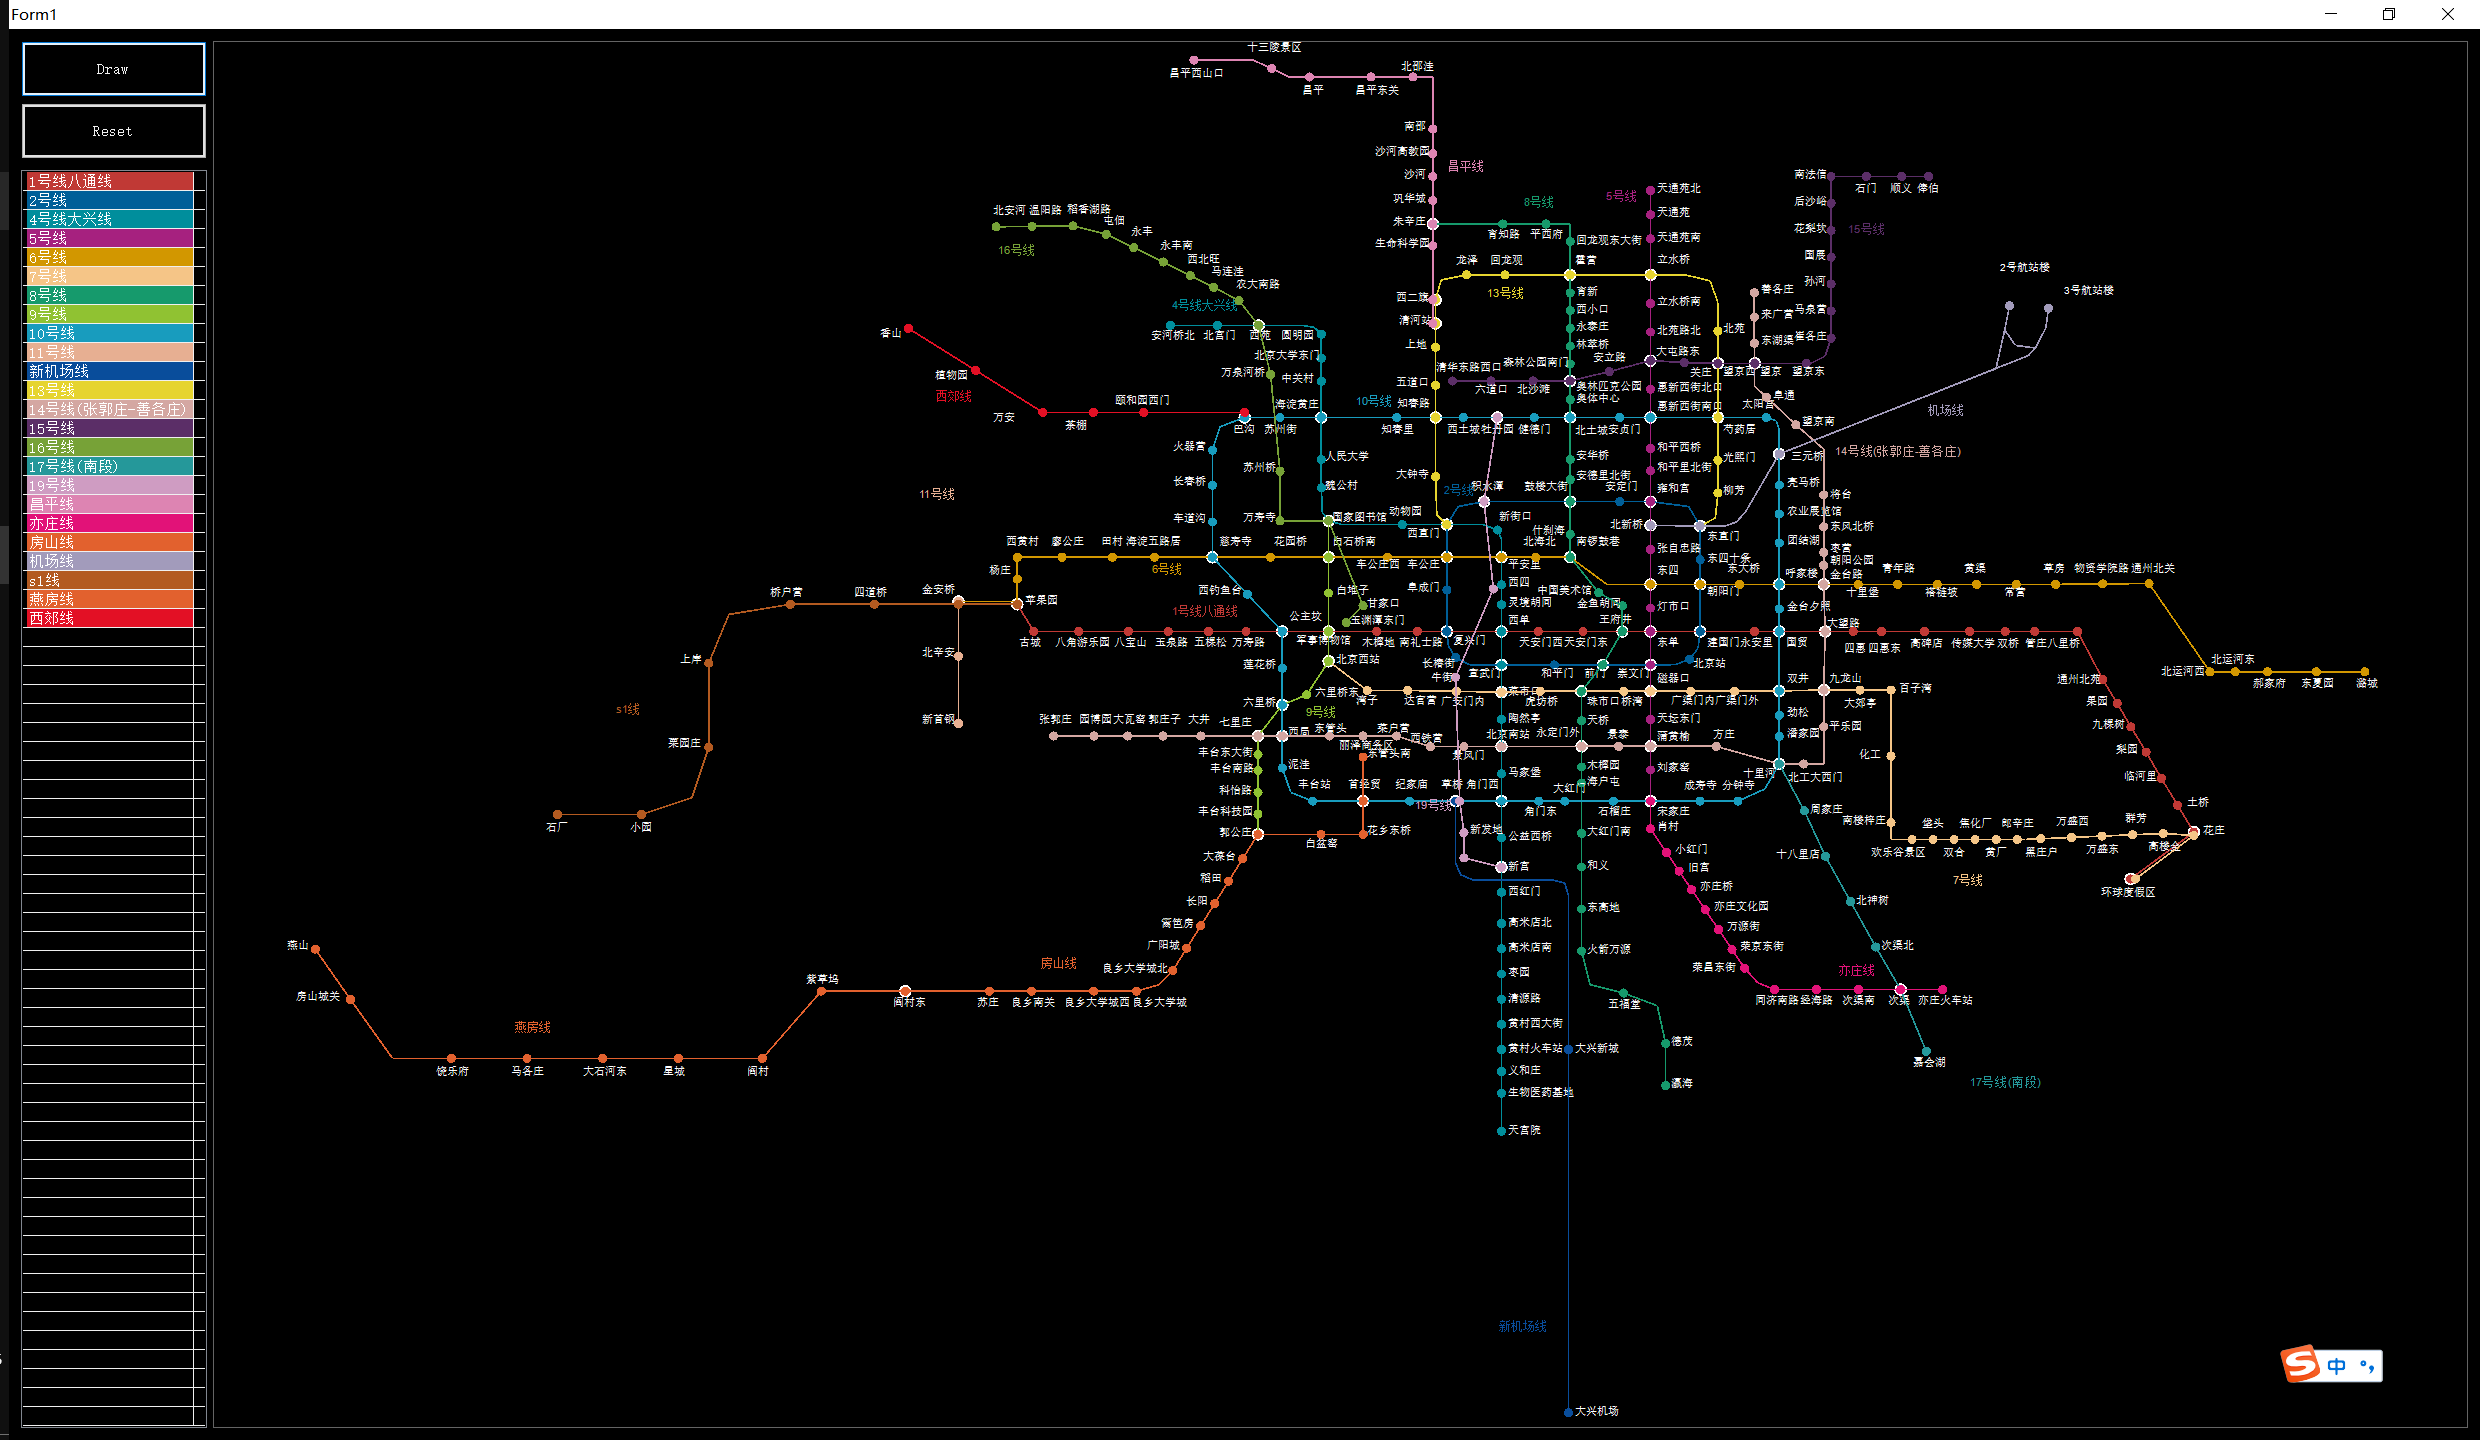
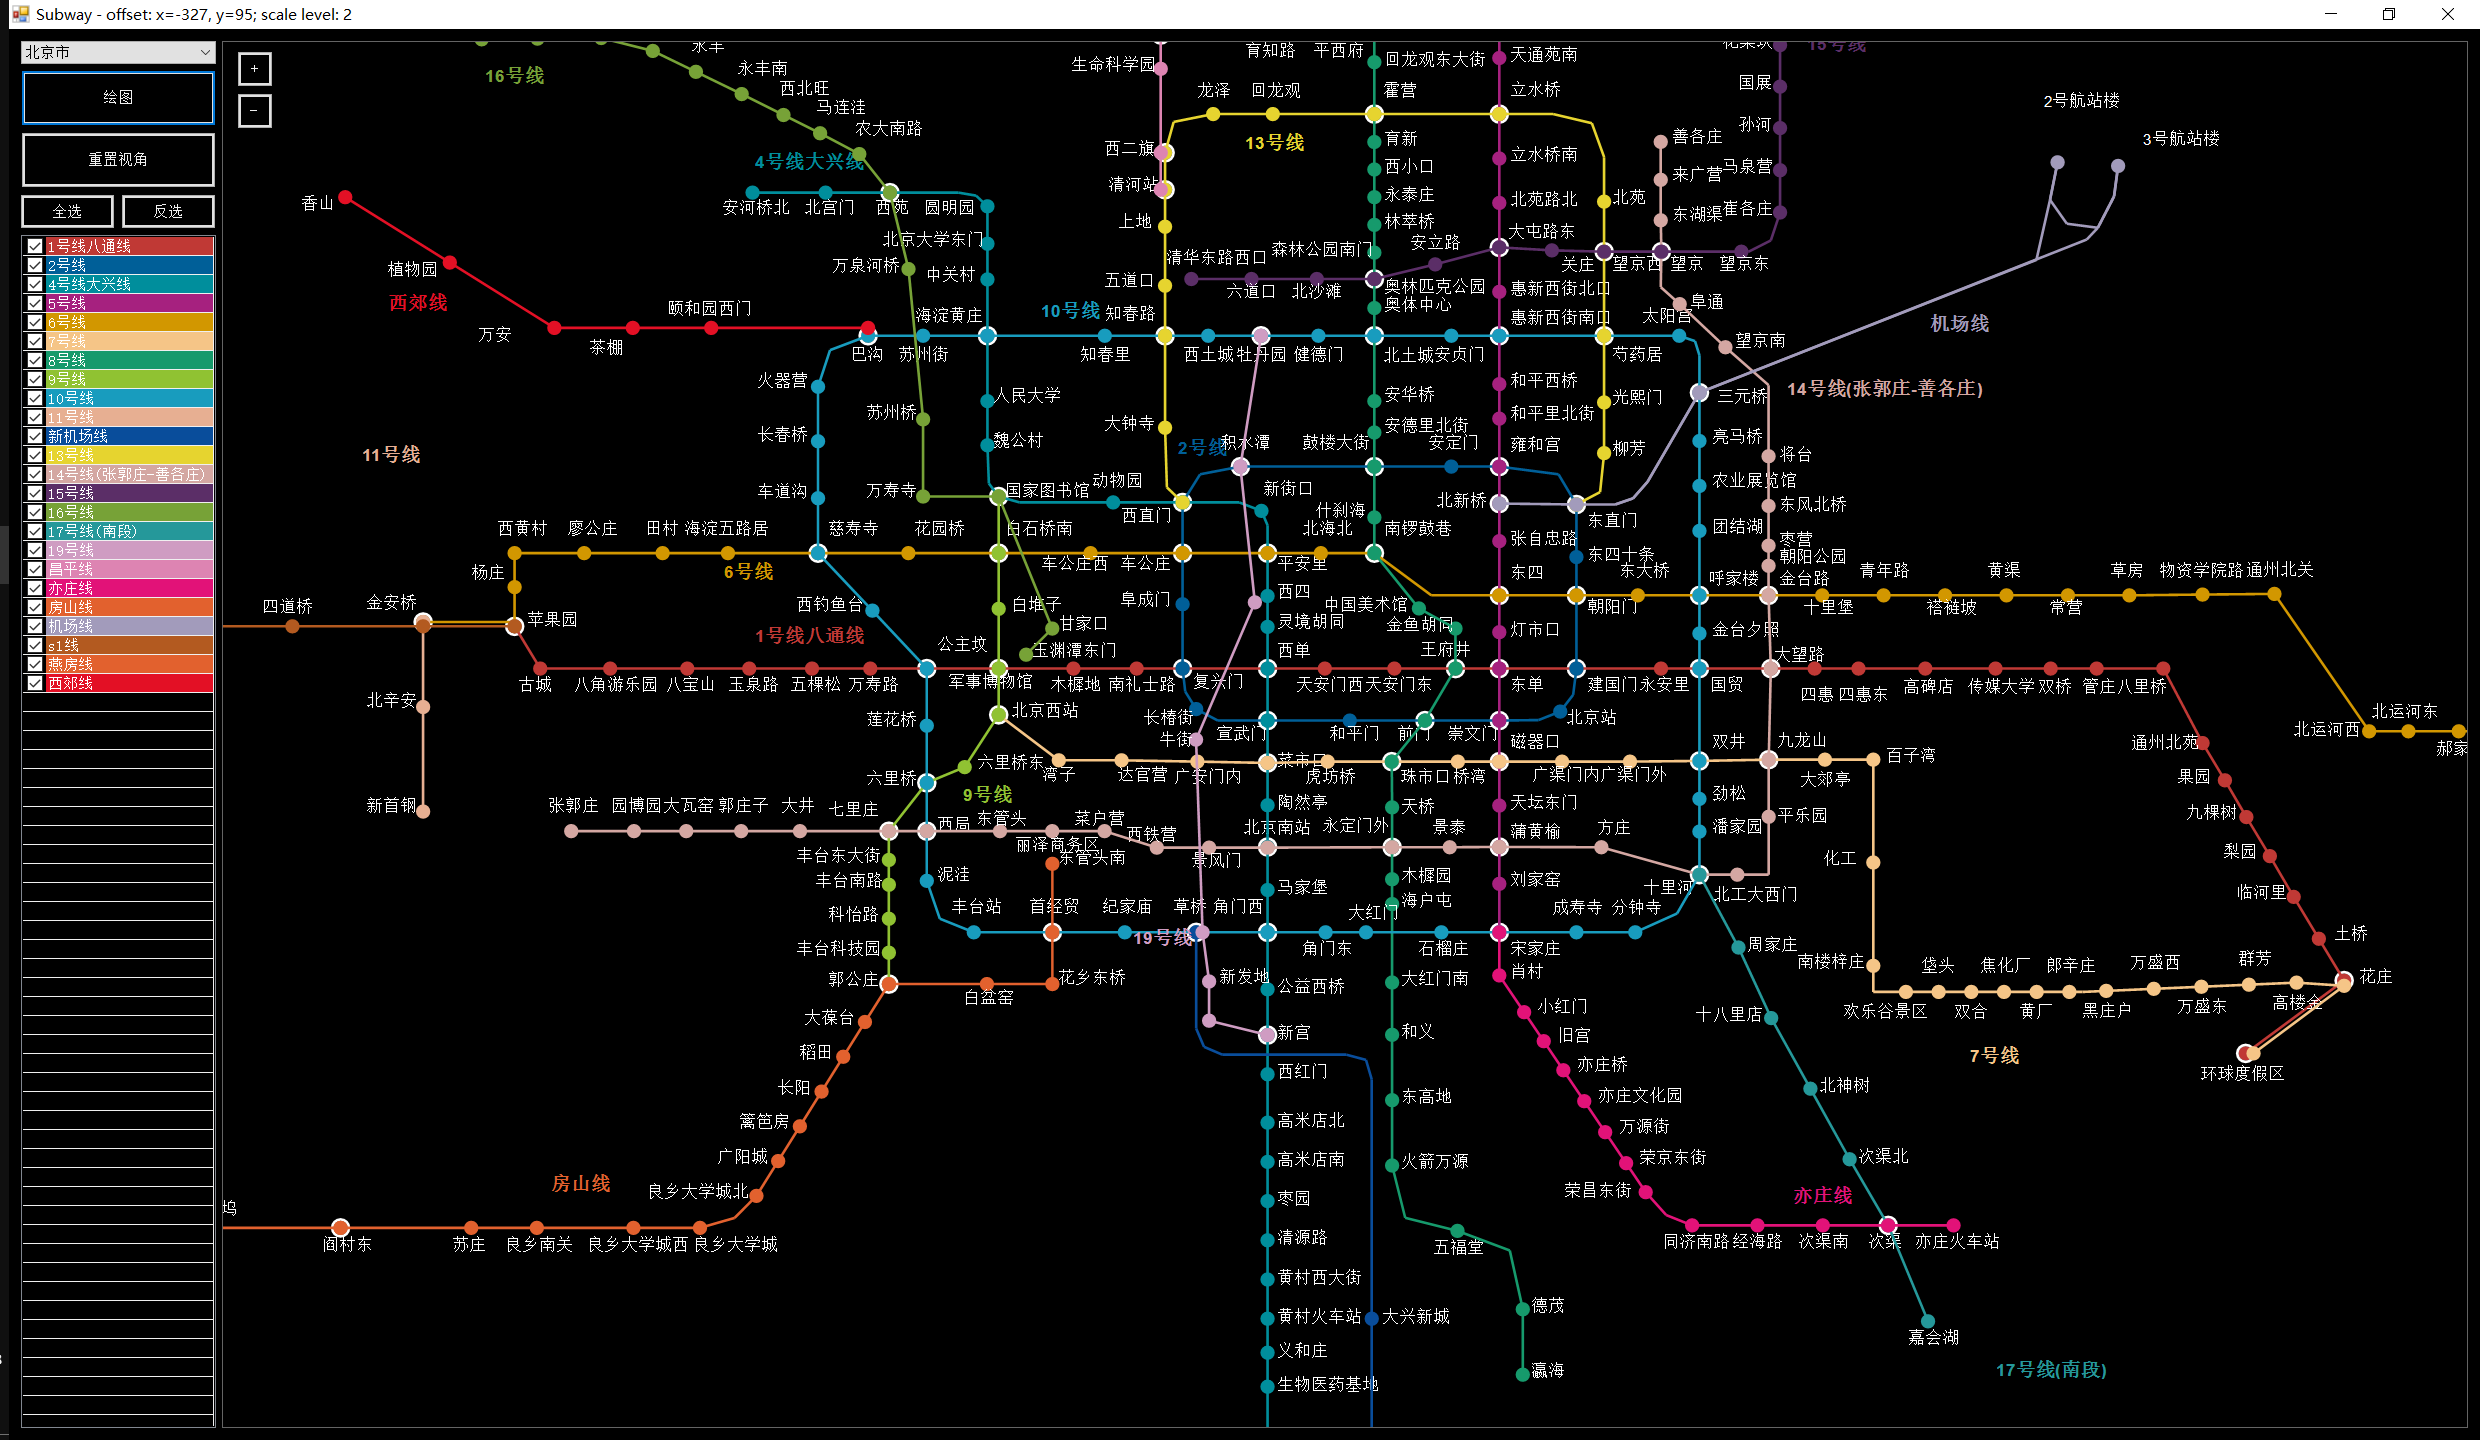
增加多城市支持;

diff --git a/cs_bjsubway/Form1.Designer.cs b/cs_bjsubway/Form1.Designer.cs
@@ -37,6 +37,7 @@
             this.button_select_no = new System.Windows.Forms.Button();
             this.button_scale_up = new System.Windows.Forms.Button();
             this.button_scale_down = new System.Windows.Forms.Button();
+            this.comboBox_city = new System.Windows.Forms.ComboBox();
             ((System.ComponentModel.ISupportInitialize)(this.pictureBox1)).BeginInit();
             this.SuspendLayout();
             // 
@@ -44,7 +45,7 @@
             // 
             this.button1.BackColor = System.Drawing.SystemColors.WindowText;
             this.button1.ForeColor = System.Drawing.SystemColors.ButtonFace;
-            this.button1.Location = new System.Drawing.Point(12, 12);
+            this.button1.Location = new System.Drawing.Point(12, 41);
             this.button1.Name = "button1";
             this.button1.Size = new System.Drawing.Size(195, 56);
             this.button1.TabIndex = 0;
@@ -64,10 +65,10 @@
             this.listView_lines.GridLines = true;
             this.listView_lines.HeaderStyle = System.Windows.Forms.ColumnHeaderStyle.None;
             this.listView_lines.HideSelection = false;
-            this.listView_lines.Location = new System.Drawing.Point(12, 179);
+            this.listView_lines.Location = new System.Drawing.Point(12, 206);
             this.listView_lines.MultiSelect = false;
             this.listView_lines.Name = "listView_lines";
-            this.listView_lines.Size = new System.Drawing.Size(195, 640);
+            this.listView_lines.Size = new System.Drawing.Size(195, 613);
             this.listView_lines.TabIndex = 2;
             this.listView_lines.UseCompatibleStateImageBehavior = false;
             this.listView_lines.View = System.Windows.Forms.View.Details;
@@ -100,7 +101,7 @@
             // 
             this.button_reset.BackColor = System.Drawing.SystemColors.WindowText;
             this.button_reset.ForeColor = System.Drawing.SystemColors.ButtonFace;
-            this.button_reset.Location = new System.Drawing.Point(12, 74);
+            this.button_reset.Location = new System.Drawing.Point(12, 103);
             this.button_reset.Name = "button_reset";
             this.button_reset.Size = new System.Drawing.Size(195, 56);
             this.button_reset.TabIndex = 4;
@@ -112,7 +113,7 @@
             // 
             this.button_select_all.BackColor = System.Drawing.SystemColors.WindowText;
             this.button_select_all.ForeColor = System.Drawing.SystemColors.ButtonFace;
-            this.button_select_all.Location = new System.Drawing.Point(12, 138);
+            this.button_select_all.Location = new System.Drawing.Point(11, 165);
             this.button_select_all.Name = "button_select_all";
             this.button_select_all.Size = new System.Drawing.Size(95, 35);
             this.button_select_all.TabIndex = 5;
@@ -124,7 +125,7 @@
             // 
             this.button_select_no.BackColor = System.Drawing.SystemColors.WindowText;
             this.button_select_no.ForeColor = System.Drawing.SystemColors.ButtonFace;
-            this.button_select_no.Location = new System.Drawing.Point(112, 138);
+            this.button_select_no.Location = new System.Drawing.Point(112, 165);
             this.button_select_no.Name = "button_select_no";
             this.button_select_no.Size = new System.Drawing.Size(95, 35);
             this.button_select_no.TabIndex = 6;
@@ -156,12 +157,26 @@
             this.button_scale_down.UseVisualStyleBackColor = false;
             this.button_scale_down.Click += new System.EventHandler(this.button_scale_down_Click);
             // 
+            // comboBox_city
+            // 
+            this.comboBox_city.BackColor = System.Drawing.SystemColors.WindowText;
+            this.comboBox_city.DropDownStyle = System.Windows.Forms.ComboBoxStyle.DropDownList;
+            this.comboBox_city.FlatStyle = System.Windows.Forms.FlatStyle.System;
+            this.comboBox_city.ForeColor = System.Drawing.SystemColors.Control;
+            this.comboBox_city.FormattingEnabled = true;
+            this.comboBox_city.Location = new System.Drawing.Point(12, 12);
+            this.comboBox_city.Name = "comboBox_city";
+            this.comboBox_city.Size = new System.Drawing.Size(195, 23);
+            this.comboBox_city.TabIndex = 9;
+            this.comboBox_city.SelectedIndexChanged += new System.EventHandler(this.comboBox_city_SelectedIndexChanged);
+            // 
             // Form1
             // 
             this.AutoScaleDimensions = new System.Drawing.SizeF(8F, 15F);
             this.AutoScaleMode = System.Windows.Forms.AutoScaleMode.Font;
             this.BackColor = System.Drawing.SystemColors.ActiveCaptionText;
             this.ClientSize = new System.Drawing.Size(1275, 831);
+            this.Controls.Add(this.comboBox_city);
             this.Controls.Add(this.button_scale_down);
             this.Controls.Add(this.button_scale_up);
             this.Controls.Add(this.button_select_no);
@@ -171,8 +186,8 @@
             this.Controls.Add(this.listView_lines);
             this.Controls.Add(this.button1);
             this.Name = "Form1";
-            this.ShowIcon = false;
             this.Text = "Form1";
+            this.Load += new System.EventHandler(this.Form1_Load);
             ((System.ComponentModel.ISupportInitialize)(this.pictureBox1)).EndInit();
             this.ResumeLayout(false);
 
@@ -189,6 +204,7 @@
         private System.Windows.Forms.Button button_select_no;
         private System.Windows.Forms.Button button_scale_up;
         private System.Windows.Forms.Button button_scale_down;
+        private System.Windows.Forms.ComboBox comboBox_city;
     }
 }
 

diff --git a/cs_bjsubway/Form1.cs b/cs_bjsubway/Form1.cs
@@ -23,8 +23,9 @@ namespace cs_bjsubway
         private int scale_lvl = 1;
         private int scale_max = 7;
         private List<Line> lines = null;
+        private List<City> cities = null;
 
-        private string app_name = "bj-subway";
+        private string app_name = "Subway";
         private List<string> check_list = new List<string>();
         private bool list_ok = false;
 
@@ -39,9 +40,10 @@ namespace cs_bjsubway
         //点击draw
         private void button1_Click(object sender, EventArgs e)
         {
-            XDocument data = Util.get_subway_data_xml(131);
-            XElement root = data.Root;
-            lines = Line.getLines(root);
+            int city = ((ComboxItem)comboBox_city.SelectedItem).Values;
+            Console.Out.WriteLine("selected city is " + city);
+            lines = Line.getLines(city);
+            check_list.Clear();
             //Util.print_data(root);
             //Util.draw(pictureBox1, root);
 
@@ -295,7 +297,7 @@ namespace cs_bjsubway
             list_ok = true;
             pictureBox1.Refresh();
         }
-        //全不选
+        //反选
         private void button_select_no_Click(object sender, EventArgs e)
         {
             list_ok = false;
@@ -325,6 +327,28 @@ namespace cs_bjsubway
             if (scale_lvl <= 0) scale_lvl = 1;
             if (scale_lvl > scale_max) scale_lvl = scale_max;
             pictureBox1.Refresh();
+        }
+        
+        
+        //开始获取城市
+        private void Form1_Load(object sender, EventArgs e)
+        {
+            cities = City.getCities();
+            comboBox_city.Items.Clear();
+            for(int i = 0; i < cities.Count; i++)
+            {
+                ComboxItem item = new ComboxItem(cities[i].cn_name, cities[i].code);
+                comboBox_city.Items.Add(item);
+            }
+            comboBox_city.SelectedIndex = 0;
+
+        }
+
+
+        //
+        private void comboBox_city_SelectedIndexChanged(object sender, EventArgs e)
+        {
+
         }
     }
 }

diff --git a/cs_bjsubway/Util.cs b/cs_bjsubway/Util.cs
@@ -1,8 +1,11 @@
 using System;
 using System.Drawing;
+using System.Net;
+using System.Text;
 using System.Text.RegularExpressions;
 using System.Windows.Forms;
 using System.Xml.Linq;
+using LitJson;
 
 namespace cs_bjsubway
 {
@@ -17,6 +20,16 @@ namespace cs_bjsubway
             return XDocument.Load(url);
         }
 
+        public static LitJson.JsonData get_cities()
+        {
+            string url = "https://map.baidu.com/?qt=subwayscity";
+            WebClient wc = new WebClient();
+            wc.Encoding = Encoding.UTF8;
+            string str = wc.DownloadString(url);
+           // Console.Out.WriteLine(str);
+            JsonData jdata = JsonMapper.ToObject(str);
+            return jdata;
+        }
 
         public static void print_data(XElement data)
         {
@@ -144,13 +157,21 @@ namespace cs_bjsubway
         //把奇怪的小数（有两个.的）转换成float
         public static float ajustF(string str_f)
         {
-            if (str_f == "")
+            if (str_f == "" || str_f=="-")
                 return 0;
+
+            if (str_f.Contains("s"))
+            {
+                Console.WriteLine("strange float found!" + str_f);
+                string str_new = str_f.Substring(0, str_f.LastIndexOf('s'));
+                return float.Parse(str_new);
+            }
+
+
             if (str_f.IndexOf('.') != str_f.LastIndexOf('.'))
             {
-                //Console.WriteLine("strange float found!" + str_f);
+                Console.WriteLine("strange float found!" + str_f);
                 string str_new = str_f.Substring(0, str_f.LastIndexOf('.'));
-                //Console.WriteLine("new str is !" + str_new);
                 return float.Parse(str_new);
             }
             else

diff --git a/cs_bjsubway/City.cs b/cs_bjsubway/City.cs
@@ -1,0 +1,40 @@
+using System;
+using System.Collections.Generic;
+using System.Linq;
+using System.Net;
+using System.Text;
+using System.Threading.Tasks;
+using LitJson;
+
+namespace cs_bjsubway
+{
+    class City
+    {
+        public City(LitJson.JsonData city)
+        {
+            this.cn_name = city["cn_name"].ToString();
+            this.cename = city["cename"].ToString();
+            this.code = int.Parse(city["code"].ToString());
+            this.cpre = city["cpre"].ToString();
+        }
+        public string cn_name;
+        public string cename;
+        public int code;
+        public string cpre;
+
+        public static List<City> getCities()
+        {
+
+
+            List<City> ret = new List<City>();
+
+            LitJson.JsonData jdata = Util.get_cities();
+            foreach(var d in jdata["subways_city"]["cities"])
+            {
+                ret.Add(new City((JsonData)d));
+                //Console.Out.WriteLine(d.ToString());
+            }
+            return ret;
+        }
+    }
+}

diff --git a/cs_bjsubway/ComboBoxItem.cs b/cs_bjsubway/ComboBoxItem.cs
@@ -1,0 +1,38 @@
+using System;
+using System.Collections.Generic;
+using System.Linq;
+using System.Text;
+using System.Threading.Tasks;
+
+namespace cs_bjsubway
+{
+    public class ComboxItem
+    {
+        private string text;
+        private int values;
+
+        public string Text
+        {
+            get { return this.text; }
+            set { this.text = value; }
+        }
+
+        public int Values
+        {
+            get { return this.values; }
+            set { this.values = value; }
+        }
+
+        public ComboxItem(string _Text, int _Values)
+        {
+            Text = _Text;
+            Values = _Values;
+        }
+
+
+        public override string ToString()
+        {
+            return Text;
+        }
+    }
+}

diff --git a/cs_bjsubway/Line.cs b/cs_bjsubway/Line.cs
@@ -60,5 +60,13 @@ namespace cs_bjsubway
             }
             return ret;
         }
+
+        public static List<Line> getLines(int city_code)
+        {
+            XDocument data = Util.get_subway_data_xml(city_code);
+            XElement root = data.Root;
+            List<Line> ret = getLines(root);
+            return ret;
+        }
     }
 }

diff --git a/cs_bjsubway/Station.cs b/cs_bjsubway/Station.cs
@@ -17,6 +17,7 @@ namespace cs_bjsubway
 
             this.x = Util.ajustF(st.Attribute("x").Value);
             this.y = Util.ajustF(st.Attribute("y").Value);
+            
             this.rx = Util.ajustF(st.Attribute("rx").Value);
             this.ry = Util.ajustF(st.Attribute("ry").Value);
 
